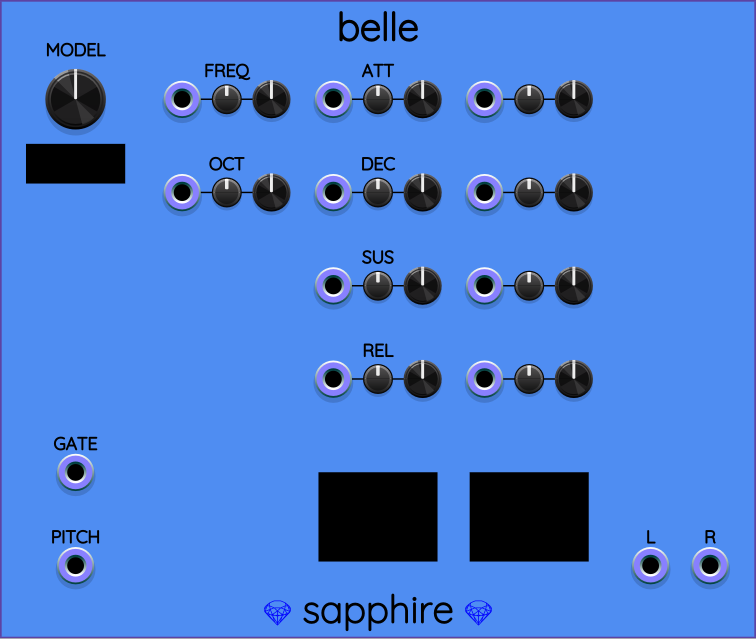
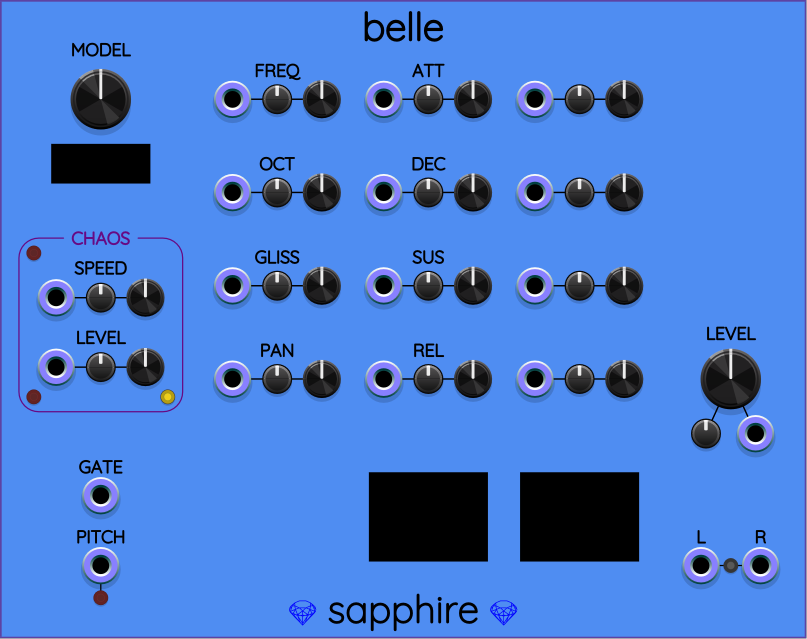
Belle: added LEVEL output control
The LEVEL control allows adjusting the final audio
output level anywhere from silence to 8 times the original
amplitude (or +18dB volume).

I will probably copy the automatic limiter logic over later
when I start working on physics-based models.

diff --git a/src/belle_vcv.cpp b/src/belle_vcv.cpp
@@ -17,7 +17,7 @@ namespace Sapphire
 
         constexpr int OctaveRange = 4;            // +/- octave range around default frequency
 
-        constexpr unsigned nChaoticSignals = 12;
+        constexpr unsigned nChaoticSignals = 13;
         using fountain_t = ChaosFountain<nChaoticSignals>;
         using batch_t = ChaosBatch<nChaoticSignals>;
 
@@ -51,6 +51,8 @@ namespace Sapphire
             OUTPUT_MODE_BUTTON_PARAM,
             GLISS_PARAM,
             GLISS_ATTEN,
+            LEVEL_PARAM,
+            LEVEL_ATTEN,
 
             PARAMS_LEN
         };
@@ -70,6 +72,7 @@ namespace Sapphire
             CHAOS_LEVEL_CV_INPUT,
             PAN_CV_INPUT,
             GLISS_CV_INPUT,
+            LEVEL_CV_INPUT,
 
             INPUTS_LEN
         };
@@ -215,6 +218,7 @@ namespace Sapphire
                 configControlGroup("Decay", DECAY_PARAM, DECAY_ATTEN, DECAY_CV_INPUT);
                 configControlGroup("Sustain", SUSTAIN_PARAM, SUSTAIN_ATTEN, SUSTAIN_CV_INPUT, 0, 1, 0.5, "%", 0, 100);
                 configControlGroup("Release", RELEASE_PARAM, RELEASE_ATTEN, RELEASE_CV_INPUT);
+                configControlGroup("Output level", LEVEL_PARAM, LEVEL_ATTEN, LEVEL_CV_INPUT, 0, 2, 1, " dB", -10, 20*3);
 
                 for (int m = 0; m < 4; ++m)
                     configControlGroup("", MOD_PARAM_0 + m, MOD_ATTEN_0 + m, MOD_CV_INPUT_0 + m);
@@ -349,6 +353,7 @@ namespace Sapphire
                 reportChaosMono(MOD_ATTEN_0+3,      batch( 9));
                 reportChaosMono(CHAOS_SPEED_ATTEN,  batch(10));
                 reportChaosMono(PAN_ATTEN,          batch(11));
+                reportChaosMono(LEVEL_ATTEN,        batch(12));
 
                 antiClick = chaosAntiClickSmoother.process(sampleRateHz);
                 if (chaosAntiClickSmoother.isDelayedActionReady() && seedToRestore)
@@ -374,6 +379,7 @@ namespace Sapphire
 
                     const bool isSampleHoldEnabled = (params.at(SAMPLE_HOLD_BUTTON_PARAM).getValue() > 0.5f);
 
+                    float levelVoltage = 0;
                     float gateVoltage = 0;
                     float pitchVoltage = 0;
                     float freqVoltage = 0;
@@ -384,6 +390,7 @@ namespace Sapphire
                     float sustainVoltage = 0;
                     float releaseVoltage = 0;
                     float modVoltage[NUM_DYNAMIC_PARAMS]{};
+                    float gain[PORT_MAX_CHANNELS]{};
                     for (unsigned c = 0; c < nPolyChannels; ++c)
                     {
                         VoiceContext& context = polyEngine.contextArray[c];
@@ -398,7 +405,10 @@ namespace Sapphire
                         for (unsigned m = 0; m < NUM_DYNAMIC_PARAMS; ++m)
                             nextVoltageOrChaosSignal(modVoltage[m], MOD_CV_INPUT_0+m, c, batch(6+m));
                         nextVoltageOrChaosSignal(panVoltage, PAN_CV_INPUT, c,         batch(11));
+                        nextVoltageOrChaosSignal(levelVoltage, LEVEL_CV_INPUT, c,     batch(12));
 
+                        static constexpr float gainSensitivity = 1.0 / 5.0;    // one knob unit per 5V change in CV
+                        gain[c] = Cube(cvGetVoltPerOctave(LEVEL_PARAM, LEVEL_ATTEN, levelVoltage * gainSensitivity, 0, 2));
                         float freq = cvGetVoltPerOctave(FREQ_PARAM, FREQ_ATTEN, freqVoltage, -OctaveRange, +OctaveRange);
                         float oct = std::round(cvGetVoltPerOctave(OCT_PARAM, OCT_ATTEN, octaveVoltage, -OctaveRange, +OctaveRange));
                         context.pan = cvGetVoltPerOctave(PAN_PARAM, PAN_ATTEN, panVoltage, -1, +1);
@@ -419,8 +429,8 @@ namespace Sapphire
                         right.setChannels(nPolyChannels);
                         for (unsigned c = 0; c < nPolyChannels; ++c)
                         {
-                            left .setVoltage(frame.poly[c].sample[0] * antiClick, c);
-                            right.setVoltage(frame.poly[c].sample[1] * antiClick, c);
+                            left .setVoltage(frame.poly[c].sample[0] * antiClick * gain[c], c);
+                            right.setVoltage(frame.poly[c].sample[1] * antiClick * gain[c], c);
                         }
                     }
                     else
@@ -431,8 +441,8 @@ namespace Sapphire
                         float sumR = 0;
                         for (unsigned c = 0; c < nPolyChannels; ++c)
                         {
-                            sumL += frame.poly[c].sample[0];
-                            sumR += frame.poly[c].sample[1];
+                            sumL += frame.poly[c].sample[0] * gain[c];
+                            sumR += frame.poly[c].sample[1] * gain[c];
                         }
                         left .setVoltage(sumL * antiClick, 0);
                         right.setVoltage(sumR * antiClick, 0);
@@ -554,6 +564,7 @@ namespace Sapphire
                 addSapphireFlatControlGroup("decay", DECAY_PARAM, DECAY_ATTEN, DECAY_CV_INPUT);
                 addSapphireFlatControlGroup("sustain", SUSTAIN_PARAM, SUSTAIN_ATTEN, SUSTAIN_CV_INPUT);
                 addSapphireFlatControlGroup("release", RELEASE_PARAM, RELEASE_ATTEN, RELEASE_CV_INPUT);
+                addSapphireControlGroup("level", LEVEL_PARAM, LEVEL_ATTEN, LEVEL_CV_INPUT);
 
                 for (int m = 0; m < 4; ++m)
                 {

diff --git a/src/sapphire_panel.cpp b/src/sapphire_panel.cpp
@@ -37,6 +37,9 @@ namespace Sapphire
             {"gliss_atten",            {  55.880,   57.600}},
             {"gliss_cv",               {  46.880,   57.600}},
             {"gliss_knob",             {  64.880,   57.600}},
+            {"level_atten",            { 142.320,   87.400}},
+            {"level_cv",               { 152.320,   87.400}},
+            {"level_knob",             { 147.320,   76.400}},
             {"mod0_atten",             { 116.840,   20.000}},
             {"mod0_cv",                { 107.840,   20.000}},
             {"mod0_knob",              { 125.840,   20.000}},

diff --git a/util/make_sapphire_svg.py b/util/make_sapphire_svg.py
@@ -2896,6 +2896,7 @@ def GenerateBellePanel(cdict: ControlDict) -> int:
         for m in range(4):
             addControlGroup(3, m, 'mod' + str(m), '')
 
+        AddControlGroup(pl, controls, font, 'level', 'LEVEL', xBelleColumn(4), yBelleRow(3))
         ChaosBox(xmidChaosBox, 48.0).generate(pl, controls, font)
     return Save(panel, svgFileName)
 
